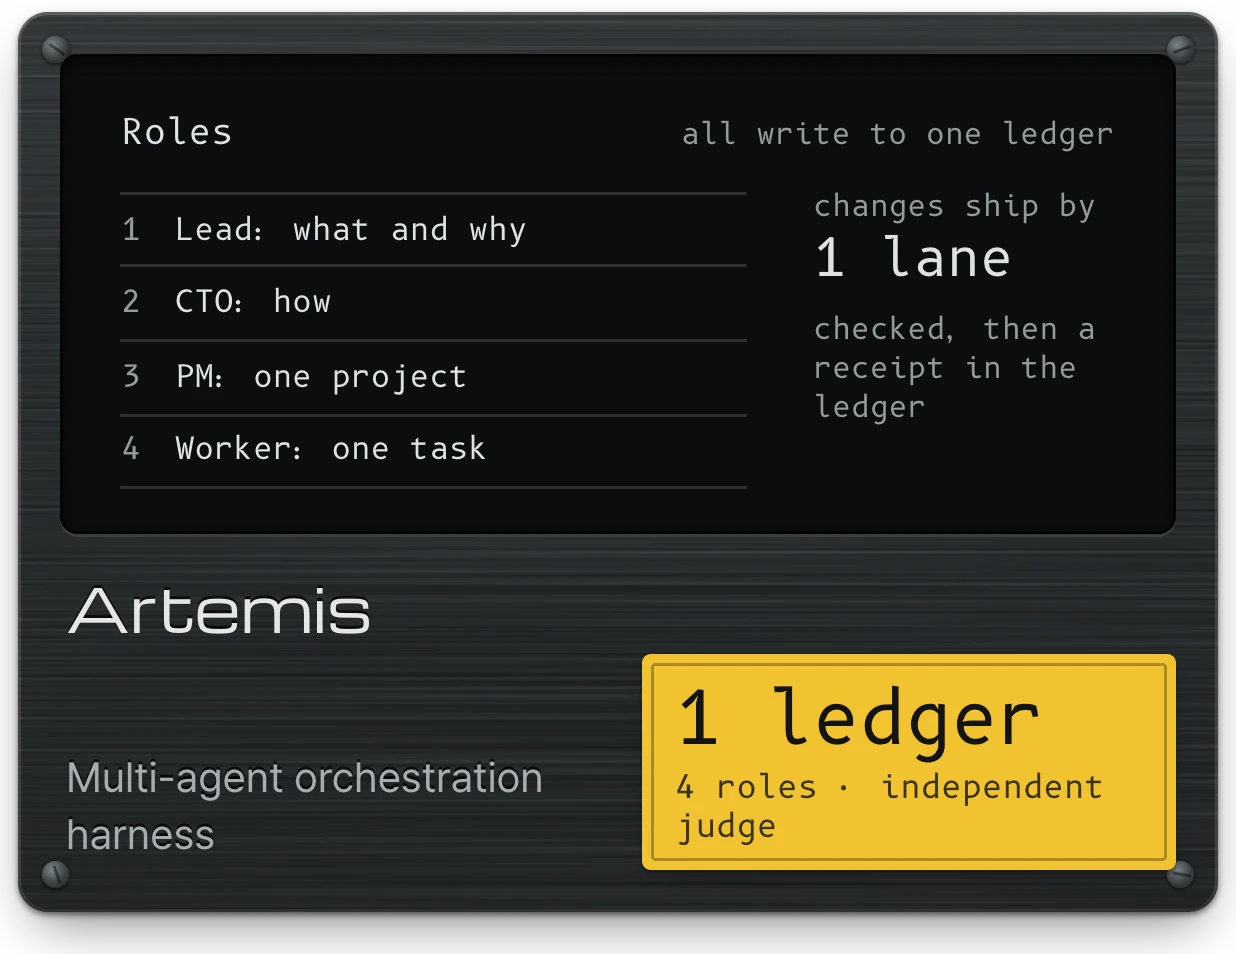
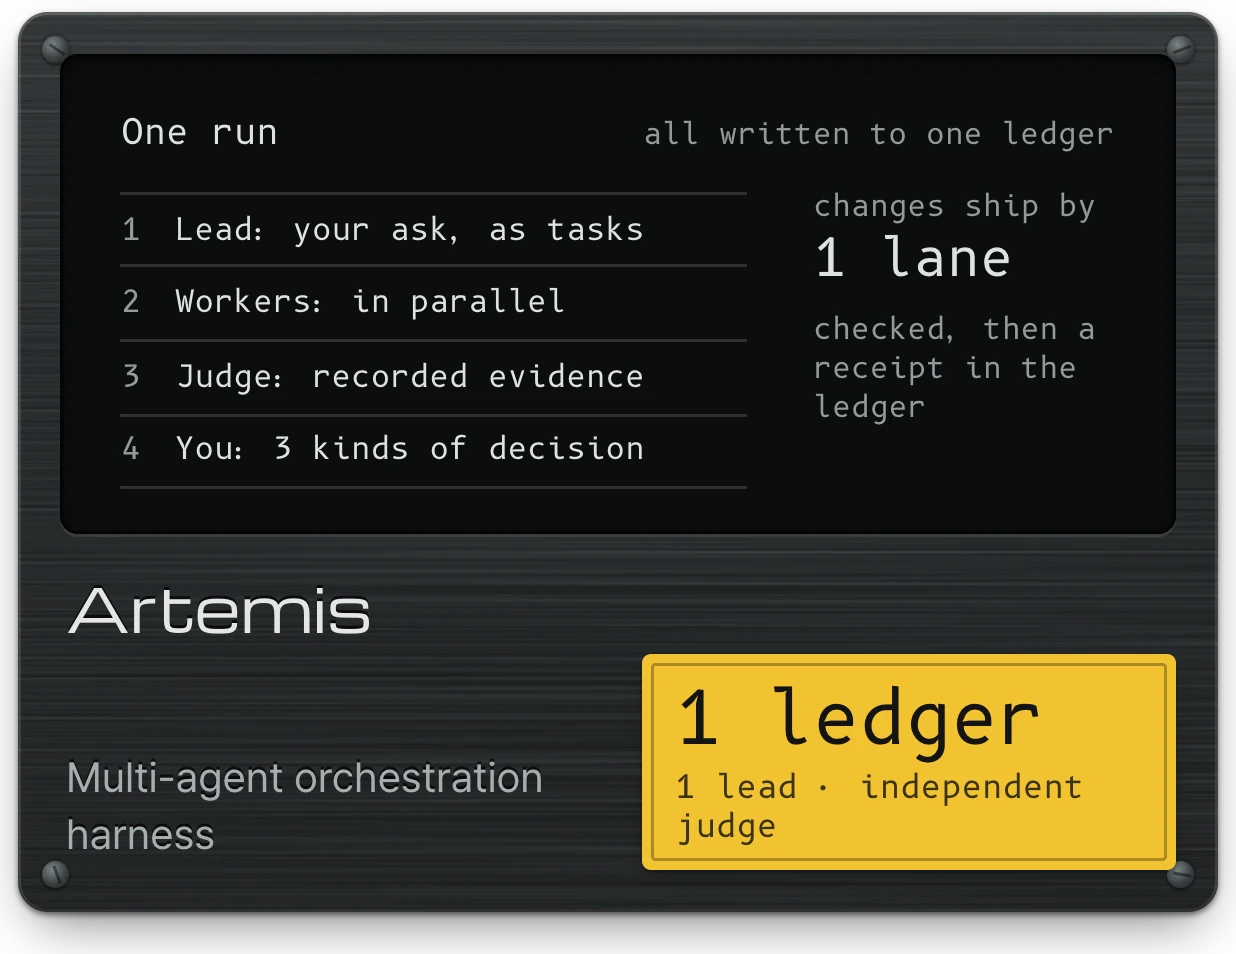
Redraw the Artemis card for v0.2.0: one run, no role chain

diff --git a/README.md b/README.md
@@ -4,7 +4,7 @@ I build AI agent systems end to end.<br>
 <picture><source media="(prefers-color-scheme: dark)" srcset="assets/stat-convenein.dark.webp"><img alt="45%+ operating efficiency gain from the automation I shipped at ConveneIn, 2026." src="assets/stat-convenein.light.webp" width="272"></picture>
 <a href="https://github.com/lidge-jun/opencodex/pull/3403"><picture><source media="(prefers-color-scheme: dark)" srcset="assets/stat-opencodex.dark.webp"><img alt="Open-source contributor to lidge-jun/opencodex, an 18.6k-star LLM provider proxy. Opens the merged pull request." src="assets/stat-opencodex.light.webp" width="272"></picture></a>
 
-<a href="https://github.com/ianlyoo/artemis"><picture><source media="(prefers-color-scheme: dark)" srcset="assets/card-artemis.dark.webp"><img alt="Artemis: multi-agent orchestration harness. Everything is written to one ledger; changes ship by 1 lane, checked and then given a receipt in the ledger. An independent judge rules on every claimed completion. Opens the repository." src="assets/card-artemis.light.webp" width="416"></picture></a>
+<a href="https://github.com/ianlyoo/artemis"><picture><source media="(prefers-color-scheme: dark)" srcset="assets/card-artemis.dark.webp"><img alt="Artemis: multi-agent orchestration harness. One run, all written to one ledger: the lead turns your ask into tasks, workers run in parallel, the judge rules on recorded evidence, and 3 kinds of decision come to you. Changes ship by 1 lane, checked and then given a receipt in the ledger. 1 lead, an independent judge. Opens the repository." src="assets/card-artemis.light.webp" width="416"></picture></a>
 <a href="https://caseclerk.vercel.app"><picture><source media="(prefers-color-scheme: dark)" srcset="assets/card-caseclerk.dark.webp"><img alt="CaseClerk: AI dispute desk for small PayPal sellers. Screenshot of the live demo, built for the PayPal AI Hackathon. Opens the live demo." src="assets/card-caseclerk.light.webp" width="416"></picture></a>
 <a href="https://github.com/ianlyoo/investmcp"><picture><source media="(prefers-color-scheme: dark)" srcset="assets/card-investmcp.dark.webp"><img alt="InvestMCP: read-only MCP server for your own accounts. 28 tools behind one auth boundary: 10 account and portfolio, 11 public data and status, 7 research. Opens the repository." src="assets/card-investmcp.light.webp" width="416"></picture></a>
 <a href="https://ianlyoo.github.io/llm-eval-pipeline/"><picture><source media="(prefers-color-scheme: dark)" srcset="assets/card-llmeval.dark.webp"><img alt="llm-eval-pipeline: offline before and after checks for LLM and RAG changes, in four steps: synthetic QA, rule and proxy scoring, an optional LLM judge, lm-eval-harness before and after. Opens the project page." src="assets/card-llmeval.light.webp" width="416"></picture></a>
